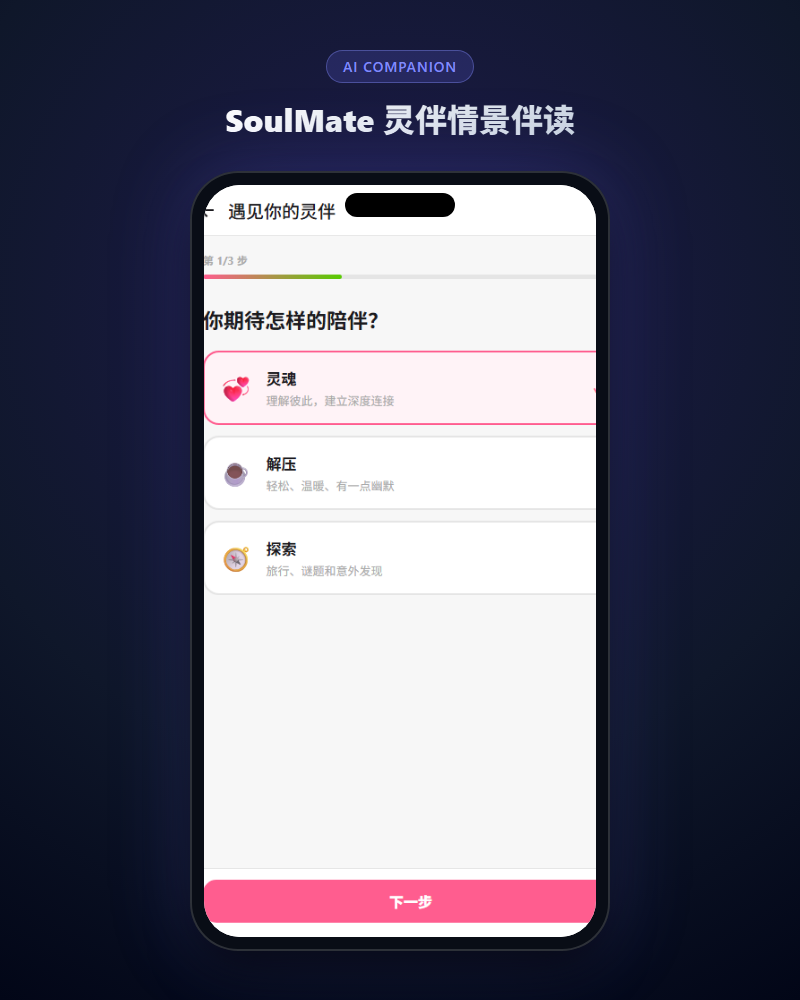
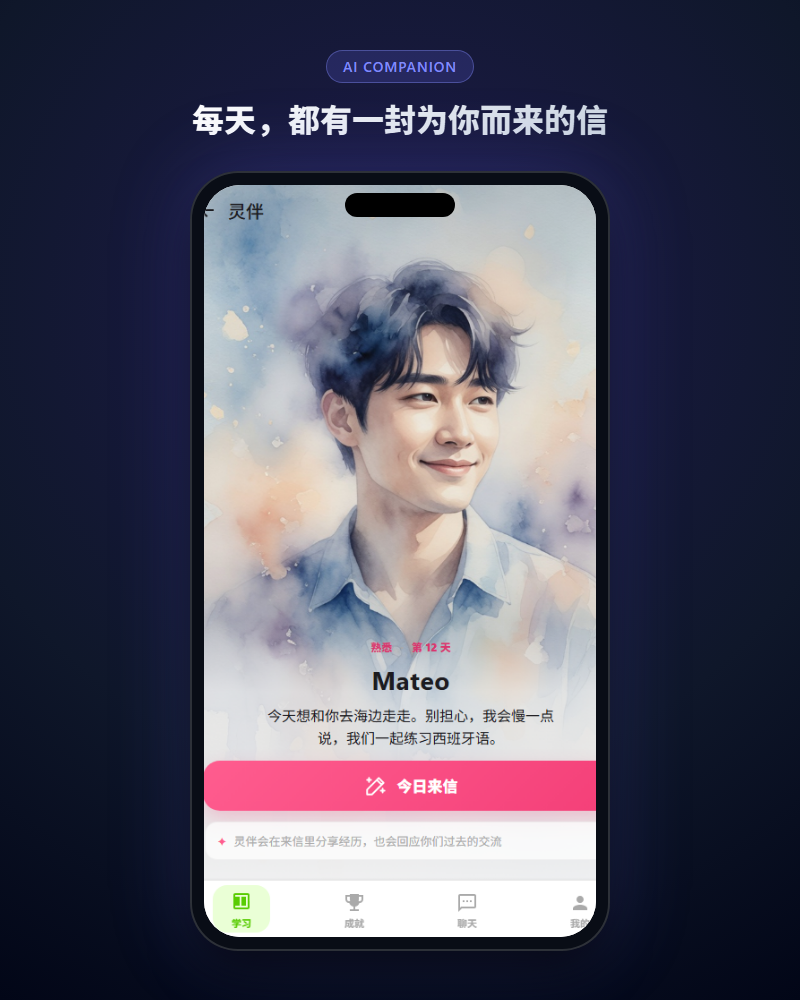
docs: 展示手机与电视灵伴实景
使用男灵伴手机截图与女灵伴电视截图更新 README 画廊，并保留可复现的原始截图与生成脚本。

---ENGLISH---

docs: Showcase SoulMate on mobile and TV

Update the README gallery with a male mobile companion and female TV companion, preserving source captures and the reproducible generator.

diff --git a/scripts/generate-cool-screenshots.js b/scripts/generate-cool-screenshots.js
@@ -13,9 +13,9 @@ function fileToBase64(filePath) {
 }
 
 const learnHubB64 = fileToBase64(path.join(rootDir, 'docs/images/real-app-learn-hub.png'));
-const soulMateB64 = fileToBase64(path.join(rootDir, 'docs/images/real-app-soulmate-setup.png'));
+const soulMateB64 = fileToBase64(path.join(rootDir, 'docs/images/real-app-soulmate-male.png'));
 const achievementsB64 = fileToBase64(path.join(rootDir, 'docs/images/real-app-achievements.png'));
-const tvModeB64 = fileToBase64(path.join(rootDir, 'docs/images/real-app-tv-mode.png'));
+const tvModeB64 = fileToBase64(path.join(rootDir, 'docs/images/real-app-soulmate-female-tv.png'));
 
 // HTML template for Mobile Mockup
 function generateMobileMockupHtml(imgB64, title, subtitle) {
@@ -210,7 +210,7 @@ const targets = [
     name: 'cool-app-soulmate.png',
     width: 800,
     height: 1000,
-    html: generateMobileMockupHtml(soulMateB64, 'AI COMPANION', 'SoulMate 灵伴情景伴读')
+    html: generateMobileMockupHtml(soulMateB64, 'AI COMPANION', '每天，都有一封为你而来的信')
   },
   {
     name: 'cool-app-achievements.png',
@@ -222,7 +222,7 @@ const targets = [
     name: 'cool-app-tv-mode.png',
     width: 1280,
     height: 800,
-    html: generateTvMockupHtml(tvModeB64, 'ANDROID TV 10-FOOT UI', '客厅大屏 D-Pad 遥控器沉浸体验')
+    html: generateTvMockupHtml(tvModeB64, 'ANDROID TV 10-FOOT UI', '把故事与陪伴带到客厅大屏')
   }
 ];
 

diff --git a/README.md b/README.md
@@ -56,21 +56,21 @@
       <sub>课程、新闻、阅读、口语、翻译与灵伴，从一个清爽入口开始。</sub>
     </td>
     <td width="50%" align="center" valign="top">
-      <img src="docs/images/cool-app-soulmate.png" alt="Amiga SoulMate 灵伴初始化" width="100%" />
+      <img src="docs/images/cool-app-soulmate.png" alt="Amiga 手机端男灵伴 Mateo" width="100%" />
       <br />
-      <strong>SoulMate 灵伴</strong>
+      <strong>Mateo · 手机端灵伴</strong>
       <br />
-      <sub>选择陪伴方式，让连续故事、共同记忆与语言练习自然发生。</sub>
+      <sub>每天一封为你而来的信，让连续故事、共同记忆与语言练习自然发生。</sub>
     </td>
   </tr>
 </table>
 
 <p align="center">
-  <img src="docs/images/cool-app-tv-mode.png" alt="Amiga Android TV 大屏界面" width="100%" />
+  <img src="docs/images/cool-app-tv-mode.png" alt="Amiga Android TV 女灵伴 Sofía 大屏界面" width="100%" />
   <br />
-  <strong>专为客厅打造的 Android TV 10-foot UI</strong>
+  <strong>Sofía · 客厅大屏灵伴</strong>
   <br />
-  <sub>大字号、清晰焦点与完整 D-Pad 遥控导航，让电视也成为沉浸式学习空间。</sub>
+  <sub>人物、故事与操作区为 16:9 电视重新编排，配合清晰焦点和 D-Pad 遥控导航。</sub>
 </p>
 
 <details>